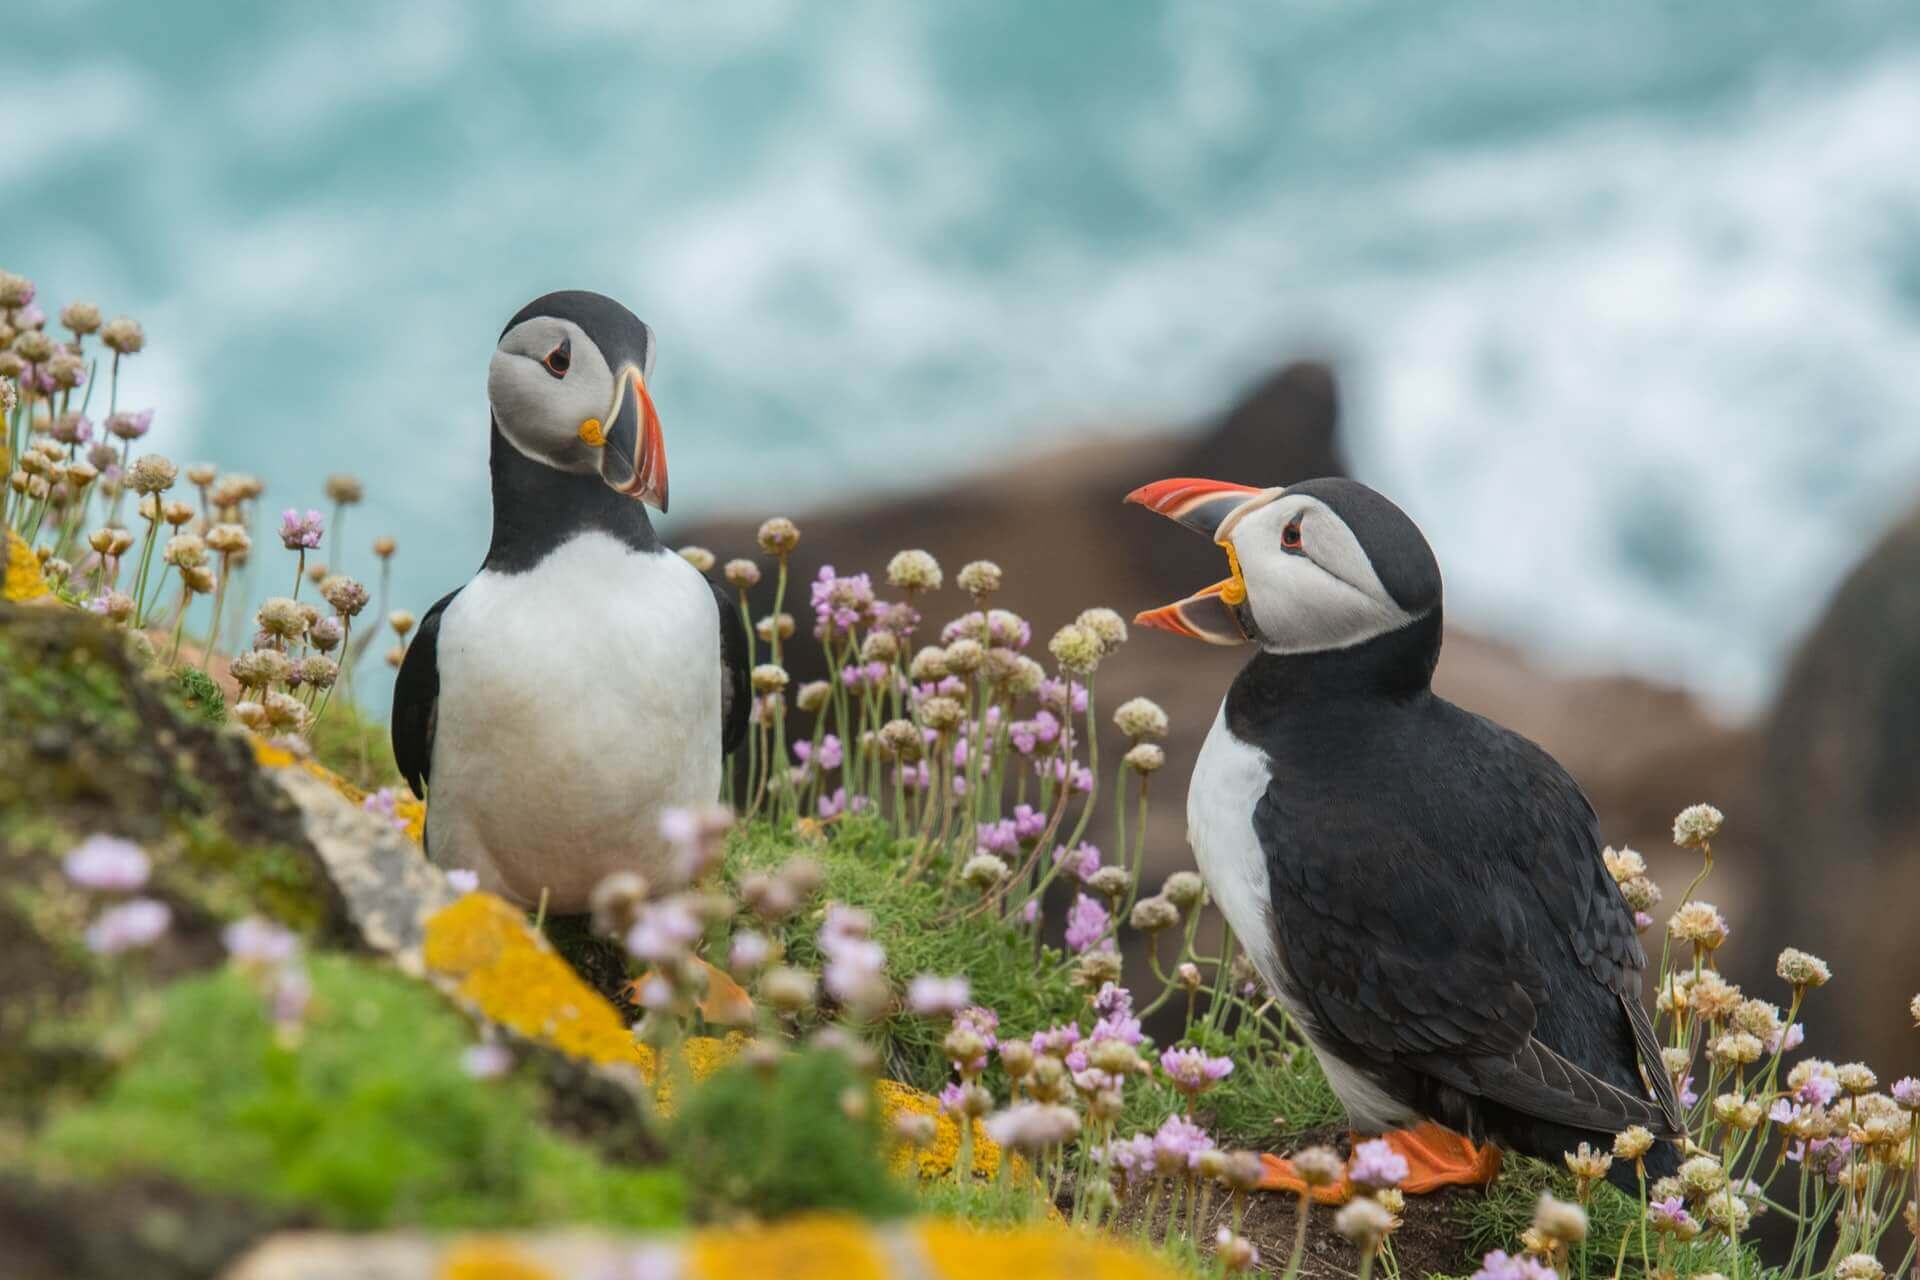
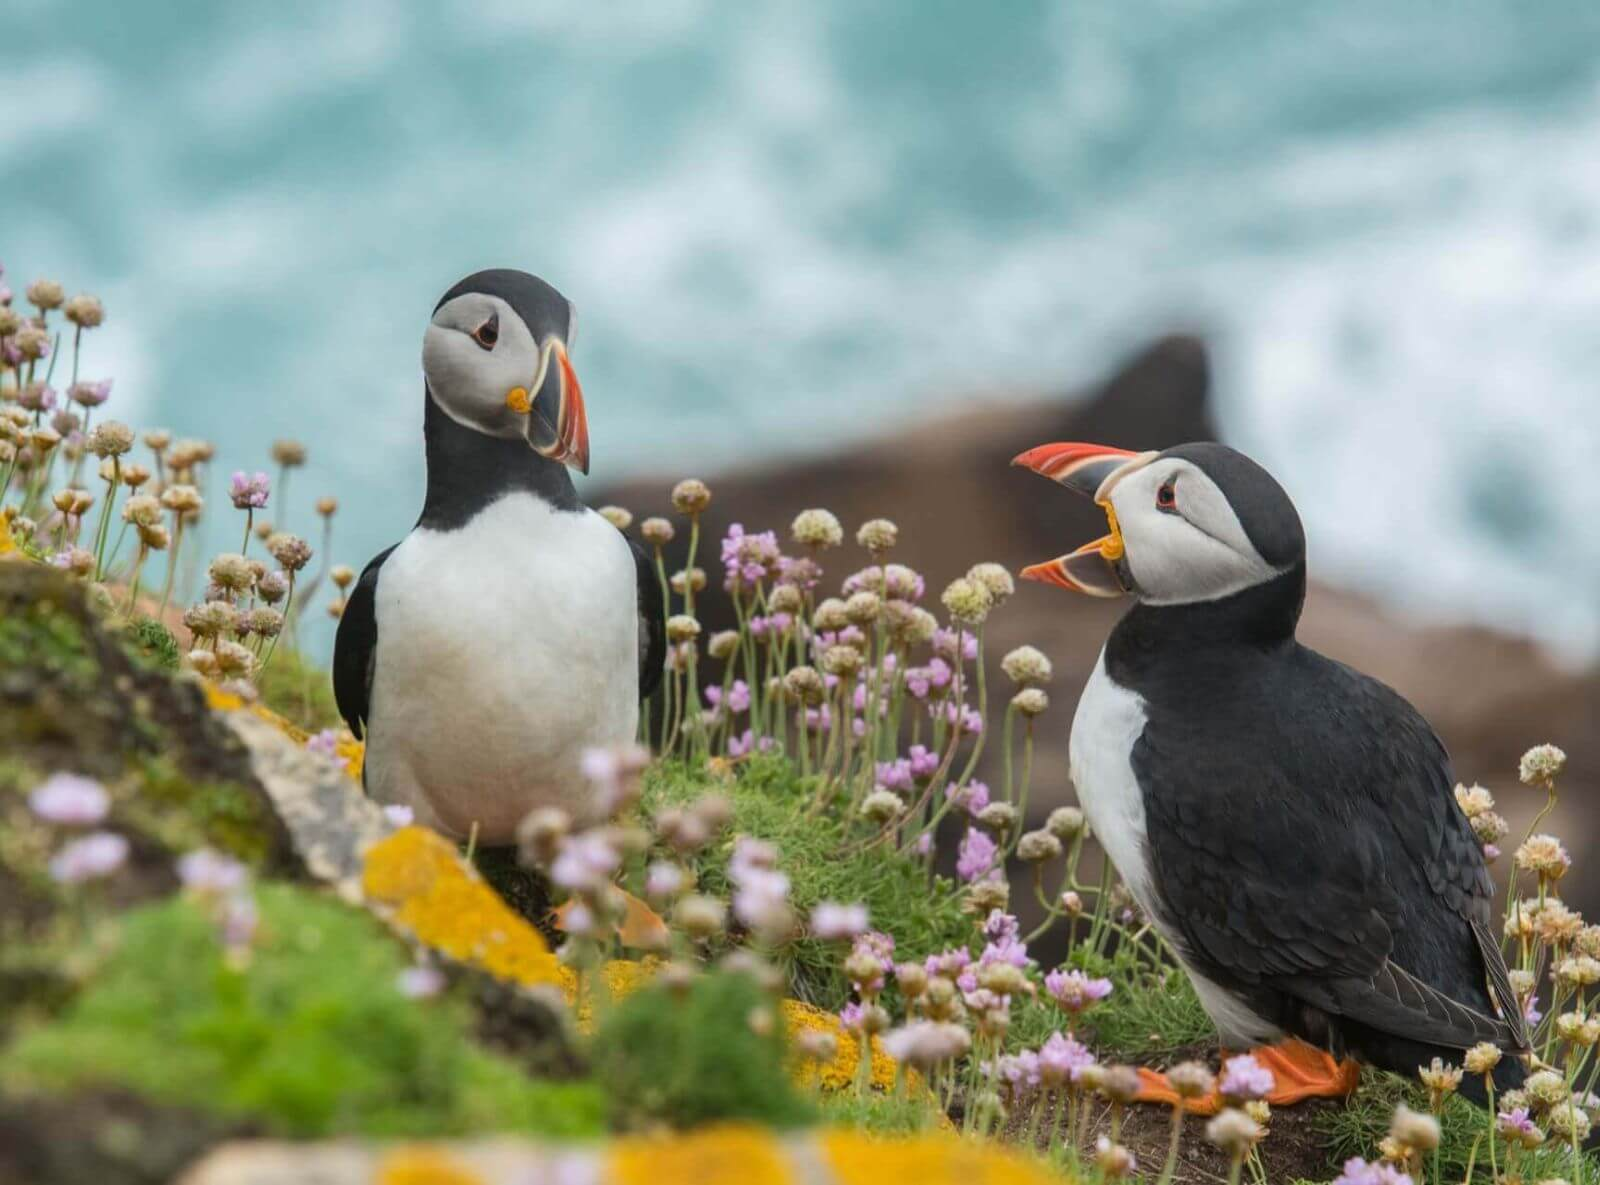
update images on user pg

diff --git a/static/css/style.css b/static/css/style.css
@@ -195,14 +195,20 @@ appearing on card reveal. Close and icon
   font-family: 'Hind', sans-serif;
 }
 
-/* card image set to 35% height of card */
+/* card image set to % height of card */
 .card-image {
   height: 38%;
-  object-fit: contain;
+  /* object-fit: contain; */
   border-radius: 9%;
   padding: 4px 4px 0 4px;
 }
 
+.card-image img{
+  /* height:80%;
+  width: 80%; */
+  object-fit: cover;
+  object-position: 50% 60%;
+}
 .card .card-reveal {
   background-color: #a9d3c1;
 }
@@ -458,15 +464,35 @@ https://www.w3schools.com/howto/howto_js_scroll_to_top.asp */
 
 /* hero image on home pg */
 .scroll-1 {
-overflow: hidden;
+
+height: 38vh;
+
+  margin-bottom: 5px;
+
+ 
+}
+
+
+.scroll-2{
   height: 35vh;
-  object-fit: contain;
-  margin-bottom: 5px;;
 }
 
 .scroll-1 img {
-  width:90%;
+height: 100%;
+width: 100%;
+object-fit: cover;
+object-position: 50% 30%;
+
 }
+
+/* img on user page */
+.scroll-2 img{
+height: 100%;
+width: 100%;
+object-fit: cover;
+object-position: 50% 30%;
+  
+  }
 
 /* styling 404 page */
 #error404-bg {

diff --git a/templates/user_page.html b/templates/user_page.html
@@ -1,12 +1,23 @@
-{% extends "base.html" %}
-{% block content %}
-<!-- This page is for logged in users to view/search their own uploaded receommendations -->
-<h1 class="center-align hide-on-small-only"> {{ username }}'s page</h1>
-<h2 class="center-align hide-on-med-and-up">{{ username }}'s page</h2>
-
-<div class="scroll-1 center-align"><img src="{{ url_for('static', filename='images/hero-lake-img-orig.jpg')}}" 
-    alt="Lough Tay from above">
-</div>
+<!--  -->
+    {% extends "base.html" %}
+    {% block content %}
+    
+    <div>
+        <!-- Show title as smaller h2 for mobiles  -->
+        <h1 class="hide-on-small-only">{{ username }}'s page</h1>
+        <h2 class="hide-on-med-and-up">{{ username }}'s pages</h2>
+    </div>
+    
+    
+    <div class="row">
+    <div class="scroll-2 center-align col s12">
+        <img src="{{ url_for('static', filename='images/cliffs-ireland.jpg') }}" 
+        alt="ireland-cliffs">
+    </div>
+    </div>
+    
+    
+        
 
 
 {% if session.user %}

diff --git a/templates/home.html b/templates/home.html
@@ -6,9 +6,16 @@
     <h1 class="hide-on-small-only">Hidden Irish Travels</h1>
     <h2 class="hide-on-med-and-up"> Hidden Irish Travels</h2>
 </div>
-<div class="scroll-1 col center-align img-responsive"><img src="{{ url_for('static', filename='images/puffins.jpg')}}" 
+
+
+<div class="row">
+<div class="scroll-1 center-align col s12">
+    <img src="{{ url_for('static', filename='images/puffins.jpg')}}" 
     alt="irelandtwo puffin birds">
 </div>
+</div>
+
+
 
 <!-- Link to bring user to their page -->
 {% if session.user %}

diff --git a/TESTING.md b/TESTING.md
@@ -274,6 +274,14 @@ TESTING: Add new allows#ed 8500 chars on the details. But edit form was restirec
 #### Lighthouse testing
 
 When code finished, ran lighthouse reports on mobile and desktop
+Version one score across the site on mobile were as follows:
+- Performance 76 to 94
+- Accessibility 77 to 93
+- Best Practices 67 to 87
+- SEO 96 TO 100 
+
+Review worst score first: 67 on Home Page
+Most of scores on this page/type relate to images. Bulk resize 
 
 
 

diff --git a/README.md b/README.md
@@ -100,6 +100,7 @@ These were built using balsamiq.
 ### Surface
 
 REmoved text on home anduser page buttons, just using icons
+Changed top image on homne and user pages, and reset css properties to ensure images displaying without stretching on all screens
 [Surface Plane](xx)
 
 #### Colors
